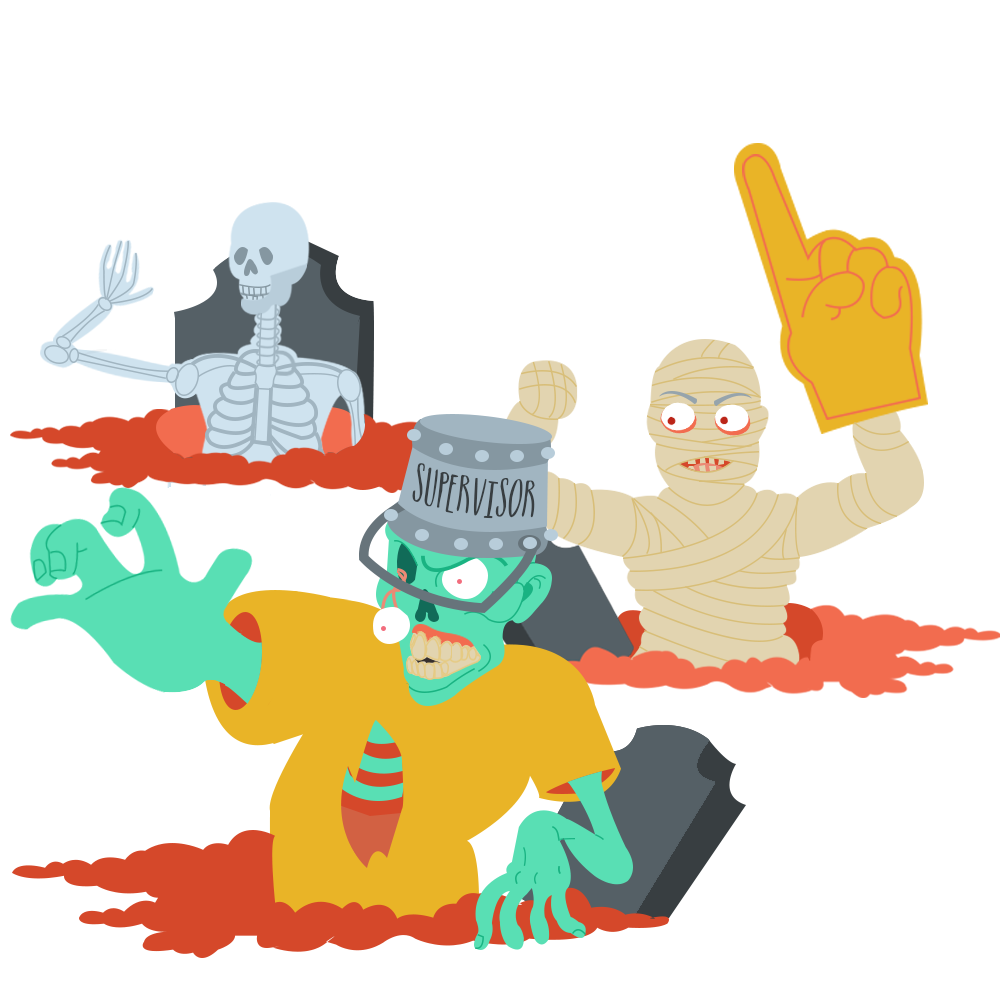
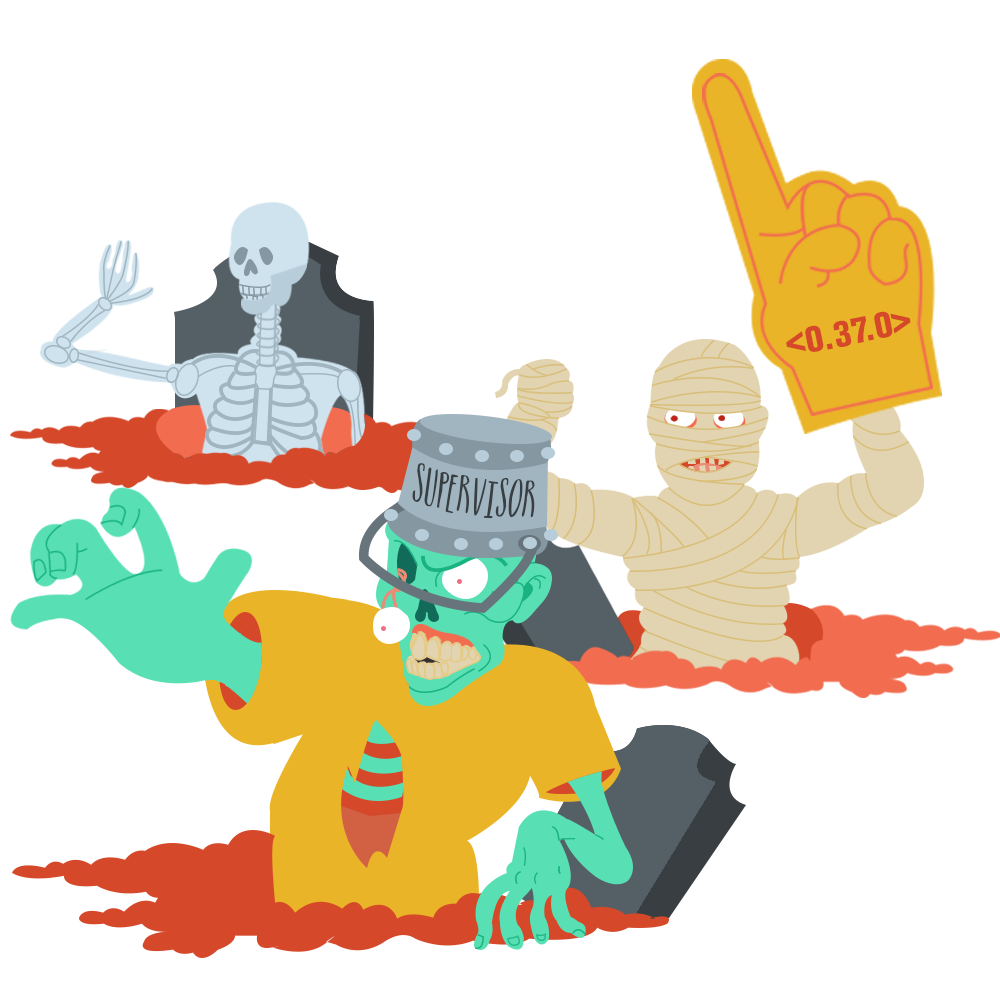
Update inaka links to use archive.org and update monsters image

diff --git a/src/content.md b/src/content.md
@@ -18,12 +18,12 @@
 
 ##Learning Erlang
 - [Learn you some Erlang - Fred Hebert](http://learnyousomeerlang.com/)
-- [Some Erlang Magic for Beginners](http://inaka.net/blog/2012/12/03/some-erlang-magic/)
+- [Some Erlang Magic for Beginners](https://web.archive.org/web/2/http://inaka.net/blog/2012/12/03/some-erlang-magic/)
 - [My favorite Erlang program - Joe Armstrong](https://joearms.github.io/2013/11/21/My-favorite-erlang-program.html)
-- [Canillita: Your First Erlang Server - Brujo Benavides](http://inaka.net/blog/2013/11/06/your-first-erlang-app-canillita/)
+- [Canillita: Your First Erlang Server - Brujo Benavides](https://web.archive.org/web/2/http://inaka.net/blog/2013/11/06/your-first-erlang-app-canillita/)
 - [On Erlang, State and Crashes - Jesper L. Andersen](http://jlouisramblings.blogspot.be/2010/11/on-erlang-state-and-crashes.html)
 - [Error Kernels, What are they? - Jesper L. Andersen](https://medium.com/@jlouis666/erlang-string-handling-7588daad8f05)
-- [Every-day Erlang: Handling Crashes in Erlang - Marcelo Gornstein](http://inaka.net/blog/2012/11/29/every-day-erlang/)
+- [Every-day Erlang: Handling Crashes in Erlang - Marcelo Gornstein](https://web.archive.org/web/2/http://inaka.net/blog/2012/11/29/every-day-erlang/)
 - [9 Erlang pitfalls you should know about - MazenHarake](https://mazenharake.wordpress.com/2010/10/31/9-erlang-pitfalls-you-should-know-about/)
 - [The Erlang shell. Your secret weapon - Jesper L. Andersen](https://medium.com/@jlouis666/the-erlang-shell-ab8d8bec3972)
 - [REPL? A bit more (and less) than that - Fred Hebert](http://ferd.ca/repl-a-bit-more-and-less-than-that.html)
@@ -57,7 +57,7 @@
 - [mixer: Mix in functions from other modules](https://github.com/chef/mixer)
 - [relx: Sane, simple release creation for Erlang](https://github.com/erlware/relx)
 - [lager: A logging framework for Erlang/OTP](https://github.com/basho/lager)
-- [elvis: The king of code style](http://inaka.net/blog/2014/09/05/erlang-standards-and-elvis-rock/)
+- [elvis: The king of code style](https://web.archive.org/web/2/http://inaka.net/blog/2014/09/05/erlang-standards-and-elvis-rock/)
 - [erlando: Set of syntax extensions for Erlang](https://github.com/rabbitmq/erlando)
 - [riak core: Distributed systems framework](https://github.com/basho/riak_core)
 - [Building on top of riak core - Mark Allen](https://www.youtube.com/watch?v=LKsNbYf9mLw)
@@ -65,7 +65,7 @@
 ##Testing
 - [Eunit](http://www.erlang.org/doc/apps/eunit/chapter.html)
 - [Common Test Basics](http://www.erlang.org/doc/apps/common_test/basics_chapter.html)
-- [Erlang Meta Testing - Brujo Benavides](http://inaka.net/blog/2015/07/17/erlang-meta-test/)
+- [Erlang Meta Testing - Brujo Benavides](https://web.archive.org/web/2/http://inaka.net/blog/2015/07/17/erlang-meta-test/)
 - [PropEr User Guide](http://proper.softlab.ntua.gr/User_Guide.html)
 - [Testing Erlang - Zachary Kessin](https://github.com/zkessin/testing-erlang-book)
 
@@ -82,9 +82,9 @@
 - [erlgrind: Convert fprof to callgring output](https://github.com/isacssouza/erlgrind)
 
 ##Performance
-- [Everyday Erlang: Quick and effective caching using ETS - Marcelo Gornstein](http://inaka.net/blog/2013/03/05/ETS-simple-cache/)
-- [Scaling Erlang - Brujo Benavides](http://inaka.net/blog/2011/10/07/scale-test-plan-simple-erlang-application/)
-- [Worker Pool - Brujo Benavides](http://inaka.net/blog/2014/09/25/worker-pool/)
+- [Everyday Erlang: Quick and effective caching using ETS - Marcelo Gornstein](https://web.archive.org/web/2/http://inaka.net/blog/2013/03/05/ETS-simple-cache/)
+- [Scaling Erlang - Brujo Benavides](https://web.archive.org/web/2/http://inaka.net/blog/2011/10/07/scale-test-plan-simple-erlang-application/)
+- [Worker Pool - Brujo Benavides](https://web.archive.org/web/2/http://inaka.net/blog/2014/09/25/worker-pool/)
 - [Planning for Overload - Ferd Hebert](https://www.youtube.com/watch?v=IuK2NvxjvWY)
 - [Erlang Factory 2014 - That's 'Billion' with a 'B': Scaling to the Next Level at WhatsApp](https://www.youtube.com/watch?v=c12cYAUTXXs)
 - [Realtime performance at scale - Fredrik Linder](https://www.youtube.com/watch?v=2Llc_k28a-U)
@@ -100,7 +100,7 @@
 - [A Deeper Look at Tails Recursion in Erlang - Programming in the 21st Century](http://prog21.dadgum.com/1.html)
 - [Why Garbage Collection Paranoia is Still (sometimes) Justified - Programming in the 21st Century](http://prog21.dadgum.com/15.html)
 - [Erlang, Binaries, and Garbage Collection (Sigh)](http://dieswaytoofast.blogspot.ca/2012/12/erlang-binaries-and-garbage-collection.html)
-- [Scaling Erlang - Inaka Networks](http://inaka.net/blog/2011/10/07/scale-test-plan-simple-erlang-application/)
+- [Scaling Erlang - Inaka Networks](https://web.archive.org/web/2/http://inaka.net/blog/2011/10/07/scale-test-plan-simple-erlang-application/)
 - [Social Platforms in Erlang - Lessons Learned](https://speakerdeck.com/kachayev/erlang-in-production-lessons-learned)
 - [Eliminating Single Process Bottlenecks with ETS Concurrency Patterns - Jay Nelson](http://youtu.be/XrkY9WRY8p0)
 - [Erlang Web Server Benchmarking - Steve Vinoski](http://steve.vinoski.net/blog/2011/05/09/erlang-web-server-benchmarking/)
@@ -118,7 +118,7 @@
 - [Ports and Port Drivers](http://www.erlang.org/doc/reference_manual/ports.html)
 - [Ports](http://www.erlang.org/doc/tutorial/c_port.html)
 - [Port drivers](http://erlang.org/doc/tutorial/c_portdriver.html)
-- [From Erlang to Java and Back Again: Part 1 - Brujo Benavides](http://inaka.net/blog/2013/09/05/from-erlang-to-java-and-back-again-1/)
+- [From Erlang to Java and Back Again: Part 1 - Brujo Benavides](https://web.archive.org/web/2/http://inaka.net/blog/2013/09/05/from-erlang-to-java-and-back-again-1/)
 - [Haskell - Interfacing Erlang](http://www.haskell.org/haskellwiki/Applications_and_libraries/Interfacing_other_languages/Erlang)
 - [erlport](https://github.com/hdima/erlport) - Connect Erlang to Ruby and Python
 - [erlang_js](https://github.com/basho/erlang_js) - A linked-in driver for Erlang to Mozilla's Spidermonkey Javascript runtime
